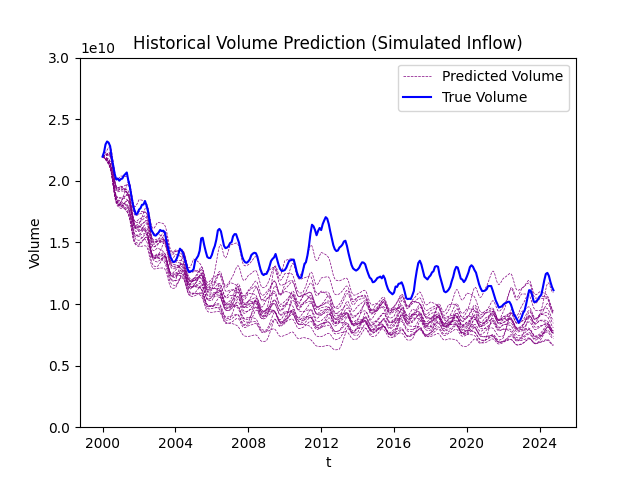
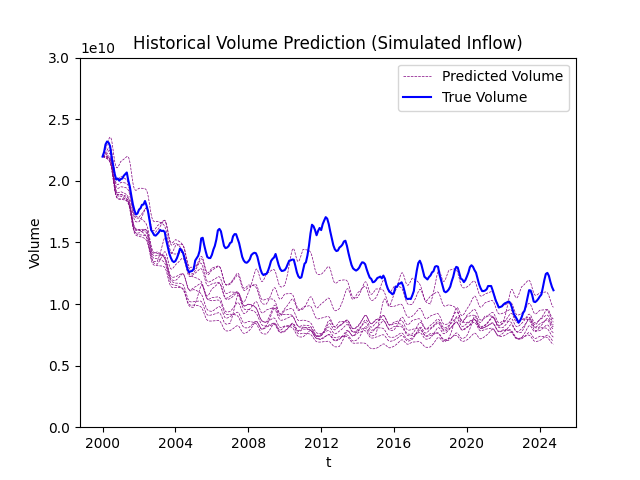
historical inflow sim

Changed region(s): [[0.1562, 0.3125, 0.875, 0.75], [0.3438, 0.5, 0.375, 0.5312]]

diff --git a/future_sim.py b/future_sim.py
@@ -1,7 +1,7 @@
 import numpy as np
 import pandas as pd
 from matplotlib import pyplot as plt
-
+from sklearn.metrics import explained_variance_score
 from scipy.integrate import solve_ivp
 import scipy.stats as stats
 
@@ -188,6 +188,7 @@ def generate_inflow_sims(num_sims, sim_years):
     return inflow_sims
 
 def simulate(num_sims, sim_years, inflow_sims=None, intervention_level=0, plot=False, y0=np.array([7947655379]), ymax=1.8e10, ymin = 0.4e10, historical=False, true_vol=None):
+    scores = []
     if plot:
         plt.clf()
         plt.ylim((ymin, ymax))
@@ -220,6 +221,9 @@ def simulate(num_sims, sim_years, inflow_sims=None, intervention_level=0, plot=F
                 plt.plot(daily_dates, sol.y[0], linestyle="dashed", lw=0.5, color='purple', label='Predicted Volume')
             else:
                 plt.plot(daily_dates, sol.y[0], linestyle="dashed", lw=0.5, color='purple')
+            var_df = pd.Series(data=sol.y[0], index=daily_dates)
+            var_df = var_df[var_df.index.isin(monthly_dates)]
+            scores.append(np.round(explained_variance_score(true_vol[:-1], var_df.values), decimals=5))
         if result[-1] >= 13486550741:
             good_count += 1
             if plot and not historical:
@@ -284,7 +288,8 @@ def simulate(num_sims, sim_years, inflow_sims=None, intervention_level=0, plot=F
     results_dict["Transitory"] = okay_count / num_sims
     results_dict["Adverse Effects"] = bad_count / num_sims
     results_dict["Severe Adverse Effects"] = vbad_count / num_sims
-    
+    if historical:
+        return scores
     return f"In simulations for the next {sim_years} years with intervention level: {intervention_level}, Healthy Outcome count: {good_count}/{num_sims}, Transitory Outcome count: {okay_count}/{num_sims}, Adverse Effects Outcome count: {bad_count}/{num_sims}, Serious Adverse Effects Outcome count: {vbad_count}/{num_sims}", results_dict
 
 if __name__ == "__main__":
@@ -308,9 +313,10 @@ if __name__ == "__main__":
     df = df[df["Date"] >= pd.to_datetime("2000-01-01")]
     true_vol = df["Total_vol_m3"].to_numpy()
     t_to_date = df["Date"].to_list()
-    num_sims = 20
+    num_sims = 10
     sim_years = 24
-    string, dict = simulate(num_sims, sim_years, intervention_level=0, plot=True, y0 = np.array([21963728535.7859]), ymax=3e10, historical=True, true_vol=true_vol)
+    scores = simulate(num_sims, sim_years, intervention_level=0, plot=True, y0 = np.array([21963728535.7859]), ymax=3e10, historical=True, true_vol=true_vol)
+    print(scores)
 
 ## RESULTS (including serious adverse category)
 # In simulations for the next 10 years with intervention level: 0, Healthy Outcome count: 0/30, Transitory Outcome count: 1/30, Adverse Effects Outcome count: 7/30, Serious Adverse Effects Outcome count: 22/30
